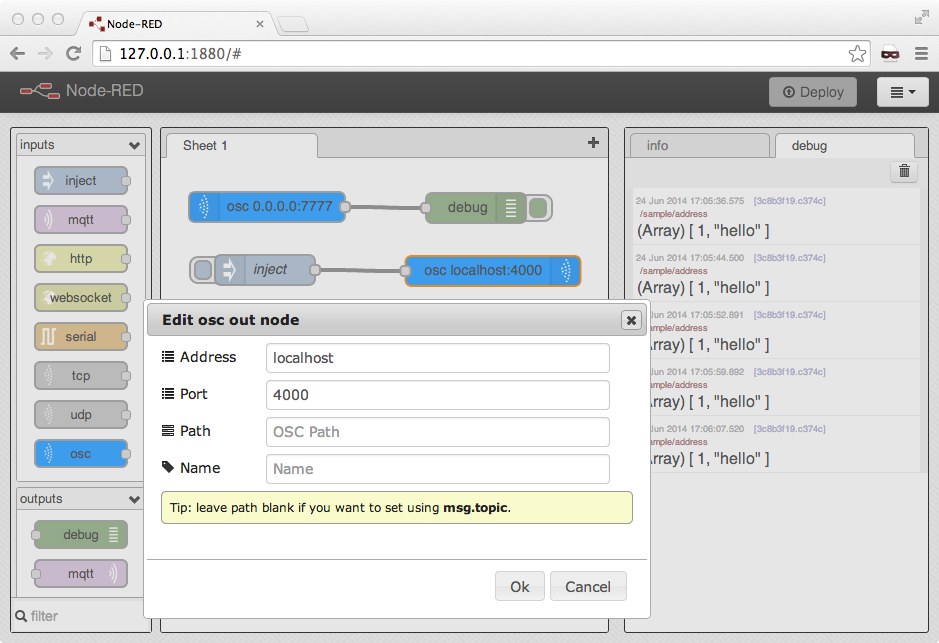
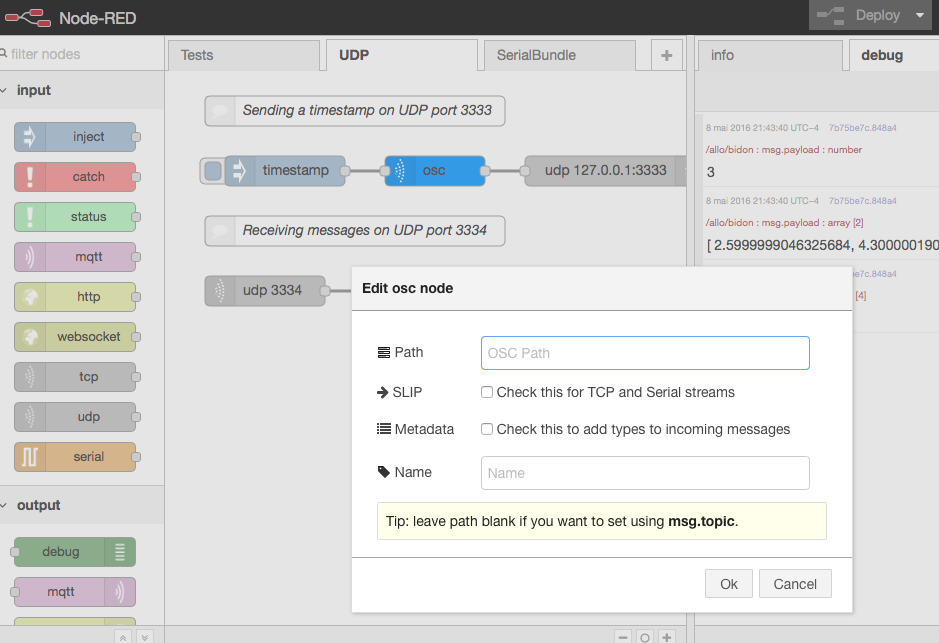
Imported major-refactor from @natcl

diff --git a/osc.html b/osc.html
@@ -1,5 +1,5 @@
 <!--
-  Copyright 2014 Nicholas Humfrey.
+  Copyright 2016 Nicholas Humfrey, Nathanaël Lécaudé.
 
   Licensed under the Apache License, Version 2.0 (the "License");
   you may not use this file except in compliance with the License.
@@ -14,66 +14,20 @@
   limitations under the License.
 -->
 
-
-<!--  The Input Node  -->
-<script type="text/x-red" data-template-name="osc in">
+<script type="text/x-red" data-template-name="osc">
     <div class="form-row">
-        <label for="node-input-addr" id="node-input-addr-label"><i class="icon-list"></i> Address</label>
-        <input type="text" id="node-input-addr" placeholder="destination ip" style="width: 70%;">
-    </div>
-    <div class="form-row">
-        <label for="node-input-port" id="node-input-port-label"><i class="icon-list"></i> Port</label>
-        <input type="text" id="node-input-port" placeholder="destination port" style="width: 70%;">
-    </div>
-    <div class="form-row">
-        <label for="node-input-name"><i class="icon-tag"></i> Name</label>
-        <input type="text" id="node-input-name" placeholder="Name">
-    </div>
-    <div class="form-tips">Tip: Make sure your firewall will allow the data in.</div>
-</script>
-
-<script type="text/x-red" data-help-name="osc in">
-    <p>A Open Source Control (OSC) input node, that produces a <b>msg.payload</b> containing an message and <b>msg.topic</b> contains the path.</p>
-    <p>If the message contains multiple values then an array will be returned.</b>
-    <p>It also provides <b>msg.ip</b> and <b>msg.port</b> to the ip address and port from which the message was received.</b>
-    <p>On some systems you may need to be root to use ports below 1024.</p>
-</script>
-
-<script type="text/javascript">
-    RED.nodes.registerType('osc in',{
-        category: 'input',
-        color:"#0099FF",
-        defaults: {
-            name: {value:""},
-            addr: {value:"0.0.0.0", required:true},
-            port: {value:"", required:true, validate:RED.validators.number()},
-        },
-        inputs:0,
-        outputs:1,
-        icon: "bridge-dash.png",
-        label: function() {
-            return this.name||"osc "+(this.addr+":"+this.port);
-        },
-        labelStyle: function() {
-            return this.name?"node_label_italic":"";
-        }
-    });
-</script>
-
-
-<!--  The Output Node  -->
-<script type="text/x-red" data-template-name="osc out">
-    <div class="form-row">
-        <label for="node-input-addr" id="node-input-addr-label"><i class="icon-list"></i> Address</label>
-        <input type="text" id="node-input-addr" placeholder="destination ip" style="width: 70%;">
-    </div>
-    <div class="form-row">
-        <label for="node-input-port" id="node-input-port-label"><i class="icon-list"></i> Port</label>
-        <input type="text" id="node-input-port" placeholder="destination port" style="width: 70%;">
-    </div>
-    <div class="form-row">
-        <label for="node-input-name"><i class="icon-tasks"></i> Path</label>
+        <label for="node-input-path"><i class="icon-tasks"></i> Path</label>
         <input type="text" id="node-input-path" placeholder="OSC Path">
+    </div>
+    <div class="form-row">
+        <label><i class="fa fa-arrow-right"></i> SLIP</span></label>
+        <input type="checkbox" id="node-input-slip" style="display: inline-block; width: auto; vertical-align: top;">
+        Check this for TCP and Serial streams
+    </div>
+    <div class="form-row">
+        <label><i class="fa fa-list"></i> Metadata</span></label>
+        <input type="checkbox" id="node-input-metadata" style="display: inline-block; width: auto; vertical-align: top;">
+        Check this to add types to incoming messages
     </div>
     <div class="form-row">
         <label for="node-input-name"><i class="icon-tag"></i> Name</label>
@@ -82,31 +36,37 @@
     <div class="form-tips">Tip: leave path blank if you want to set using <b>msg.topic</b>.</div>
 </script>
 
-<script type="text/x-red" data-help-name="osc out">
-    <p>Send messages using the Open Sound Control (OSC) protocol.</p>
-    <p>This node sends <b>msg.payload</b> to the designated OSC host and port.</p>
-    <p>On some systems you may need to be root to use ports below 1024 and/or broadcast.</p>
+<script type="text/x-red" data-help-name="osc">
+    <p>Decode and encode messages using the Open Sound Control (OSC) protocol.</p>
+    <p>The OSC node is transport independant meaning you will need to use it with
+    Node-RED&#39;s built-in input and output objects like udp, tcp, websocket or serial.</p>
+    <p>If the node receives a <code>Buffer</code> as <code>msg.payload</code> it will convert
+    it and place the OSC address in <code>msg.topic</code> and the received arguments
+    in <code>msg.payload.</code> The raw message can be found in <code>msg.raw.</code></p>
+    <p>If the node receives a valid OSC path as <code>msg.topic</code> and data as
+    <code>msg.payload</code> it will convert the data to a <code>Buffer</code> that can be
+    sent via tcp, udp, websocket or serial. You can also override <code>msg.topic</code>
+    by setting the path in the node&#39;s properties.</p>
+    <p>In the case of TCP and Serial streams, you may need to encode the data using SLIP.
+    To do so, check the SLIP checkbox within the node&#39;s properties.</p>
 </script>
 
 <script type="text/javascript">
-    RED.nodes.registerType('osc out',{
-        category: 'output',
+    RED.nodes.registerType('osc',{
+        category: 'function',
         color:"#0099FF",
         defaults: {
             name: {value:""},
-            addr: {value:"localhost", required:true},
-            port: {value:"", required:true, validate:RED.validators.number()},
             path: {value:""},
+            slip: {value: false},
+            metadata: {value: false}
         },
         inputs:1,
-        outputs:0,
+        outputs:1,
         icon: "bridge-dash.png",
-        align: "right",
+        align: "left",
         label: function() {
-            return this.name||"osc "+(this.addr+":"+this.port);
-        },
-        labelStyle: function() {
-            return this.name?"node_label_italic":"";
+            return this.name||"osc";
         }
     });
 </script>

diff --git a/osc.js b/osc.js
@@ -1,5 +1,5 @@
 /**
- * Copyright 2014 Nicholas Humfrey
+ * Copyright 2016 Nicholas Humfrey, Nathanaël Lécaudé
  *
  * Licensed under the Apache License, Version 2.0 (the "License");
  * you may not use this file except in compliance with the License.
@@ -16,76 +16,84 @@
 
 module.exports = function(RED) {
     "use strict";
-    var osc = require('node-osc');
+    var osc = require('osc');
+    var slip = require('slip');
 
-    // The Input Node
-    function OSCin(n) {
+    function OSC(n) {
         RED.nodes.createNode(this,n);
-        this.addr = n.addr;
-        this.port = n.port;
         var node = this;
+        node.path = n.path;
+        node.slip = n.slip;
+        node.metadata = n.metadata;
 
-        var server = new osc.Server(this.port, this.addr);
-        server.on('message', function (message, remote) {
-            var topic = message.shift();
-            if (message.length == 0) {
-                message = "";
-            } else if (message.length == 1) {
-                message = message[0];
+        node.currentMessage = null;
+
+        node.slipDecoder = new slip.Decoder({
+            onMessage: function (m) {
+                node.currentMessage.payload = m;
+                var decodedMsg = node.decode(node.currentMessage);
+                node.send(decodedMsg);
             }
-            var msg = { topic:topic, payload:message, ip:remote.address, port:remote.port };
+        });
+
+        node.decode = function(_msg) {
+            _msg.raw = osc.readPacket(_msg.payload, {"metadata": node.metadata, "unpackSingleArgs": true});
+            if (_msg.raw.packets) {
+                _msg.topic = "bundle";
+                _msg.payload = _msg.raw.packets;
+            } else {
+                _msg.topic = _msg.raw.address;
+                _msg.payload = _msg.raw.args;
+            }
+            return _msg;
+        };
+
+        node.on("input", function(msg) {
+            // When we get a Buffer
+            if (Buffer.isBuffer(msg.payload)) {
+                if (node.slip) {
+                    // We buffer the msg so the slipDecoder callback can access it
+                    node.currentMessage = msg;
+                    node.slipDecoder.decode(msg.payload);
+                    return;
+                } else {
+                    msg = node.decode(msg);
+                }
+            // When we get an Object
+            } else {
+                var path;
+                if (node.path === "") {
+                    if (msg.topic === "" && !msg.payload.packets) {
+                        node.error("OSC Path is empty, please provide a path using msg.topic");
+                        return;
+                    } else {
+                        path = msg.topic;
+                    }
+                } else {
+                    path = node.path;
+                    msg.topic = path;
+                }
+
+                var packet;
+                // If we receive a bundle
+                if (msg.payload.packets) {
+                    packet = msg.payload;
+                    packet.timeTag = osc.timeTag(msg.payload.timeTag);
+                } else {
+                    packet = {address: path, args: msg.payload};
+                }
+
+                msg.payload = new Buffer(osc.writePacket(packet));
+                if (node.slip) {
+                    msg.payload = new Buffer(slip.encode(msg.payload));
+                }
+            }
             node.send(msg);
         });
 
         node.on("close", function() {
-            try {
-                server.kill();
-                node.log('OSC listener stopped');
-            } catch (err) {
-                node.error(err);
-            }
+            //Tidy up things here
         });
     }
-    RED.nodes.registerType("osc in", OSCin);
-
-
-    // The Output Node
-    function OSCout(n) {
-        RED.nodes.createNode(this,n);
-
-        var node = this;
-        node.addr = n.addr;
-        node.port = n.port;
-        node.path = n.path;
-
-        if (node.addr == "") {
-            node.warn("OSC: ip address not set");
-        } else if (node.port == 0) {
-            node.warn("OSC: port not set");
-        } else if (isNaN(node.port) || (node.port < 1) || (node.port > 65535)) {
-            node.warn("OSC: port number not valid");
-        } else {
-            node.client = new osc.Client(node.addr, node.port);
-        }
-
-        node.on("input", function(msg) {
-            var path = node.path || msg.topic || ""
-            if (path == "") {
-                node.warn("OSC: path and topic not set");
-            } else {
-                if (msg.payload === null || msg.payload.length === 0) {
-                    node.client.send(path);
-                } else {
-                    if(Array.isArray(msg.payload)) {
-                        var args = msg.payload.splice(0, msg.payload.length);
-                        args.unshift(path);
-                        node.client.send.apply(node.client, args);
-                    } else {
-                        node.client.send(path, msg.payload);
-                    }
-                }
-            }
-        });
-    }
-    RED.nodes.registerType("osc out", OSCout);
-}
+    RED.nodes.registerType("osc", OSC);
+};

diff --git a/README.md b/README.md
@@ -1,21 +1,24 @@
-node-red-contrib-osc
-====================
+# node-red-contrib-osc
 
-The *node-red-contrib-osc* module adds support to [Node-RED](http://nodered.org/) for sending and receiving OSC ([Open Sound Control](http://opensoundcontrol.org/introduction-osc)) messages to other systems.
+The *node-red-contrib-osc* module adds support to [Node-RED](http://nodered.org/) for decoding and encoding OSC ([Open Sound Control](http://opensoundcontrol.org/introduction-osc)) messages.
 
 This then makes it easy to bridge between other protocols, for example HTTP or MQTT.
 
-![screenshot](https://github.com/njh/node-red-contrib-osc/raw/master/screenshot.png)
+![screenshot](https://github.com/njh/node-red-osc/raw/master/screenshot.png)
 
+## Warning
 
-Installation
-------------
+Version 1.0 breaks backwards compatibility. The node was updated to be transport agnostic and now requires the use of the different input and output objects provided by Node-RED. To see some examples, go to the Node-RED menu under import and you should see different example flows for the new node.
+
+In the newer version there is a single node as opposed to 2 different ones.  The node will automatically detect the input type (buffer or object) and will convert it appropriately.
+
+## Installation
 
 Change to your node-red installation directory and then run:
 
     npm install node-red-contrib-osc
-    
-You will then be able to see the two new OSC node types added to Node-RED's pallet on the left.
+
+You will then be able to see the new OSC node type added to Node-RED's pallet on the left.
 
 
 Copyright and license
